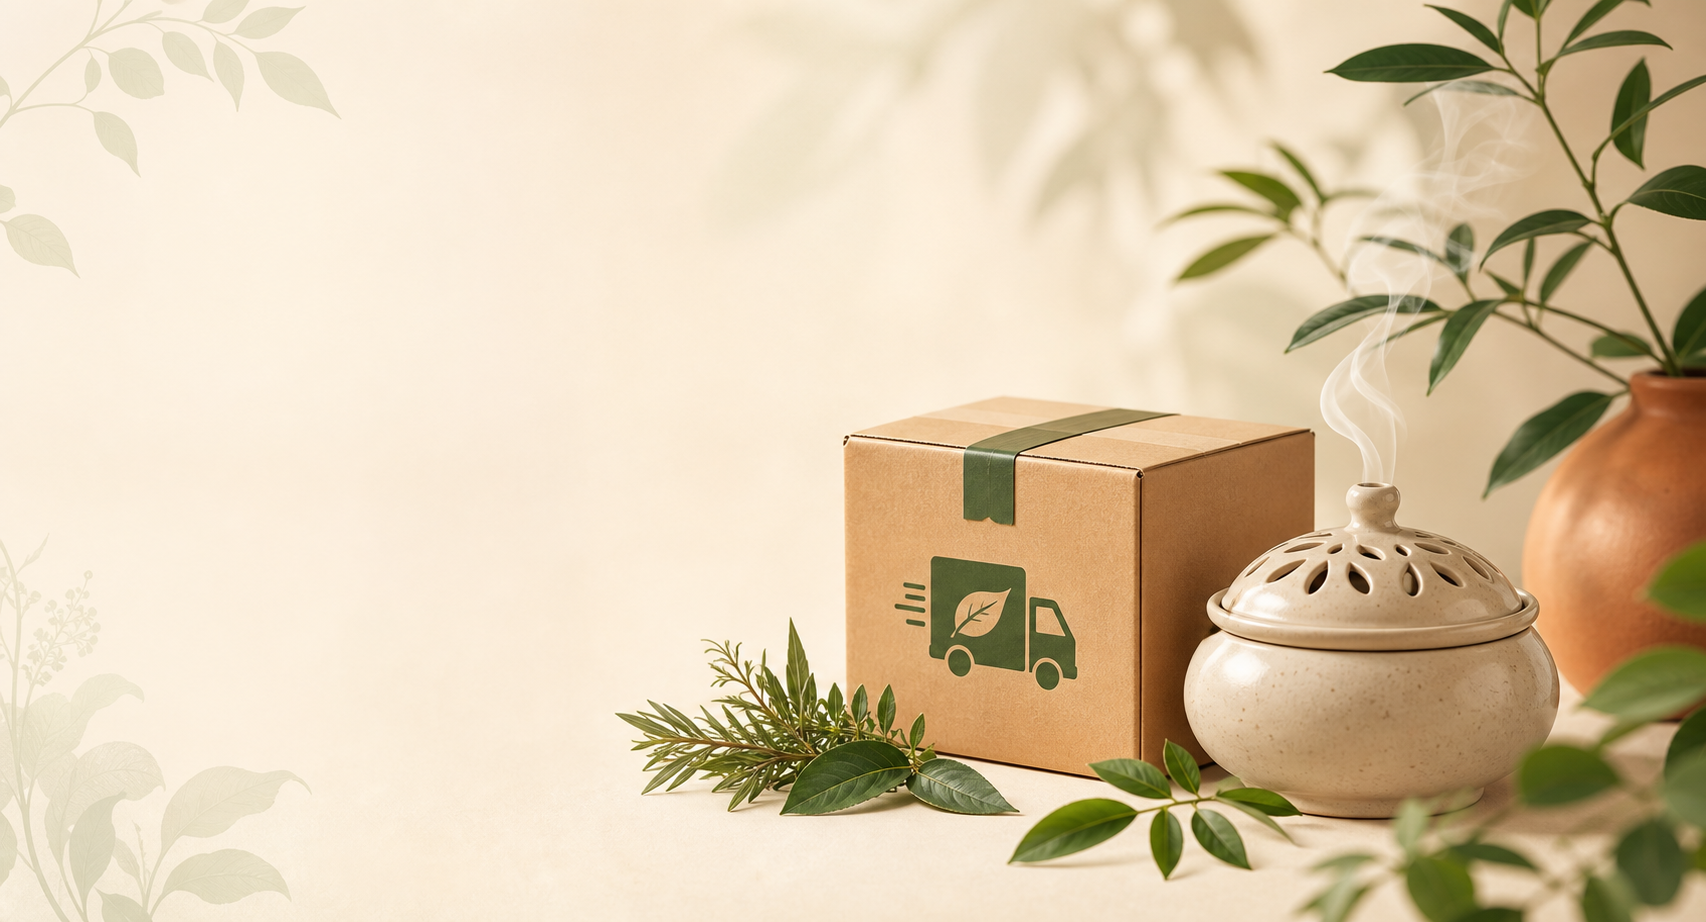
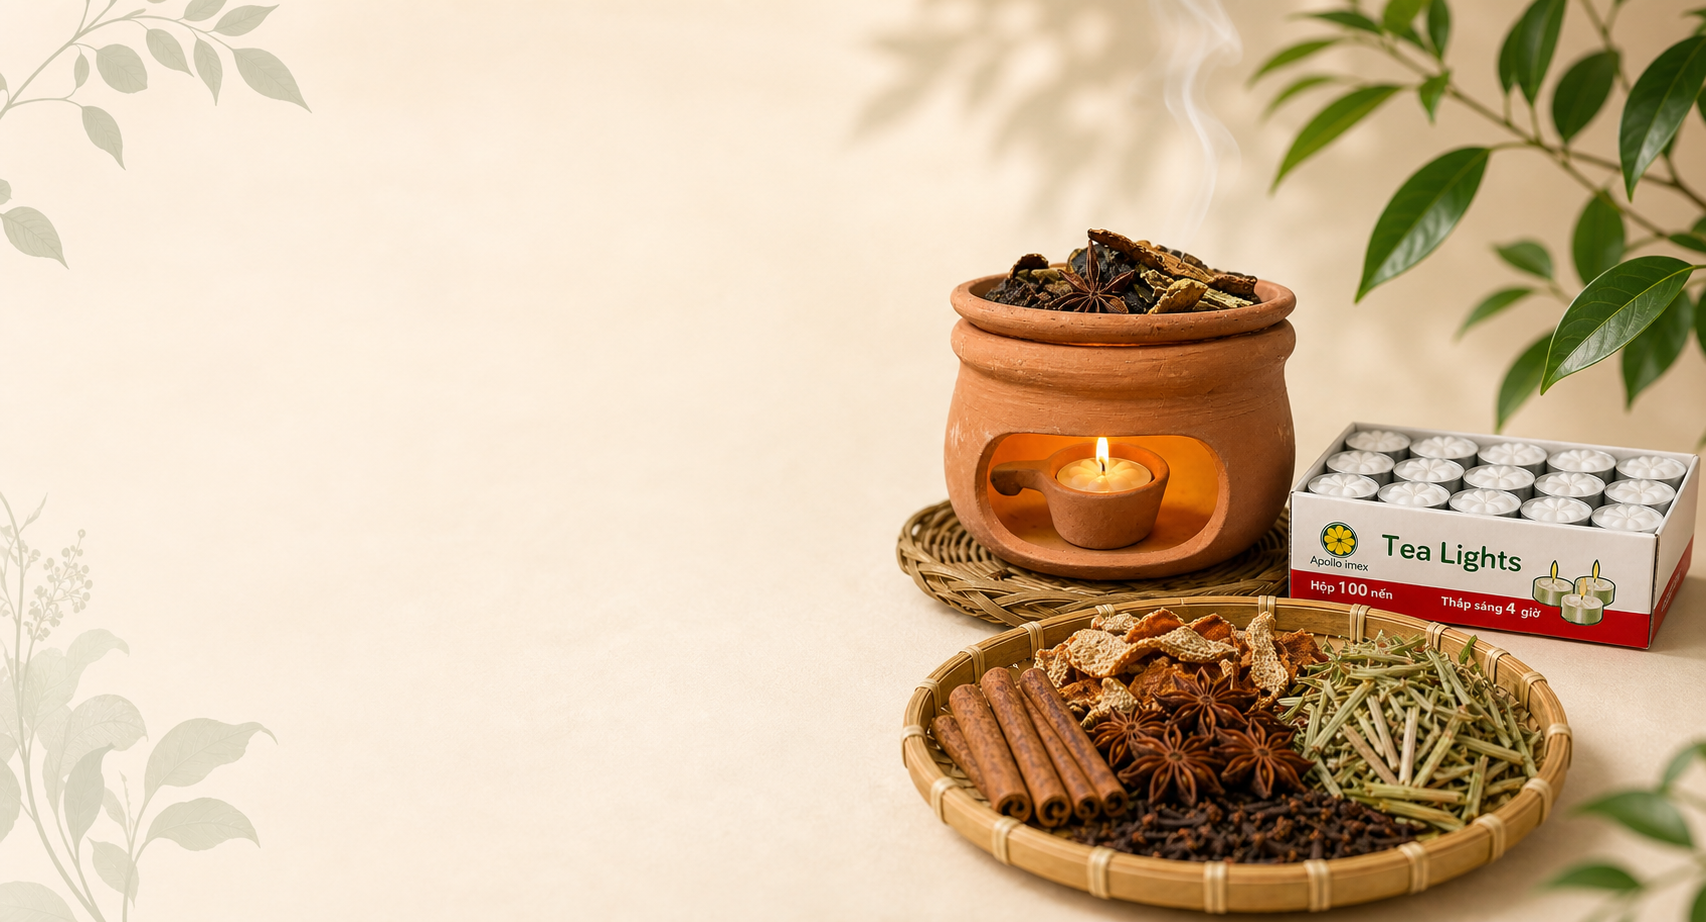
Use product imagery in shipping popup

diff --git a/CONTEXT.md b/CONTEXT.md
@@ -45,9 +45,9 @@ The site is a static GitHub Pages-style website. Public pages are generated from
 
 ## Latest Completed Task
 Date: 2026-07-15
-Done: Added a shipping promotion bar and a delayed first-visit popup for HCMC shipping offers.
+Done: Added a shipping promotion bar and a delayed first-visit popup for HCMC shipping offers, then replaced its generic illustration with the approved real product arrangement.
 Files changed: `assets/js/app.jsx`, generated `assets/js/app.min.js` and static pages, `assets/media/generated/shipping-promo-popup-v1.png`, `docs/DECISIONS.md`, `docs/CHANGELOG.md`, `CONTEXT.md`.
-New decisions: The popup appears after 1.2 seconds, dismisses for seven days, keeps a compact shipping bar visible, and its CTA scrolls to bestselling products.
+New decisions: The popup appears after 1.2 seconds, dismisses for seven days, keeps a compact shipping bar visible, and its CTA scrolls to bestselling products. Its visual uses the real terracotta burner, tealight candles, and herbal combo references.
 
 ## Open Issues
 - Keep `CONTEXT.md` concise as future work accumulates.

diff --git a/docs/CHANGELOG.md b/docs/CHANGELOG.md
@@ -6,6 +6,9 @@
 - Added a responsive HCMC shipping promotion bar and first-visit popup with a delivery illustration.
 - Added a seven-day dismissal limit and a CTA that takes visitors to bestselling products.
 
+### Changed
+- Replaced the popup's generic ceramic-burner illustration with the approved real product arrangement of a terracotta burner, tealight candles, and herbal combo.
+
 ### Fixed
 - Moved the related-content block for `cach-xong-nha-bang-thao-moc` into the article reading column.
 - Updated the local admin article template so category links and related posts use compact responsive card grids.
